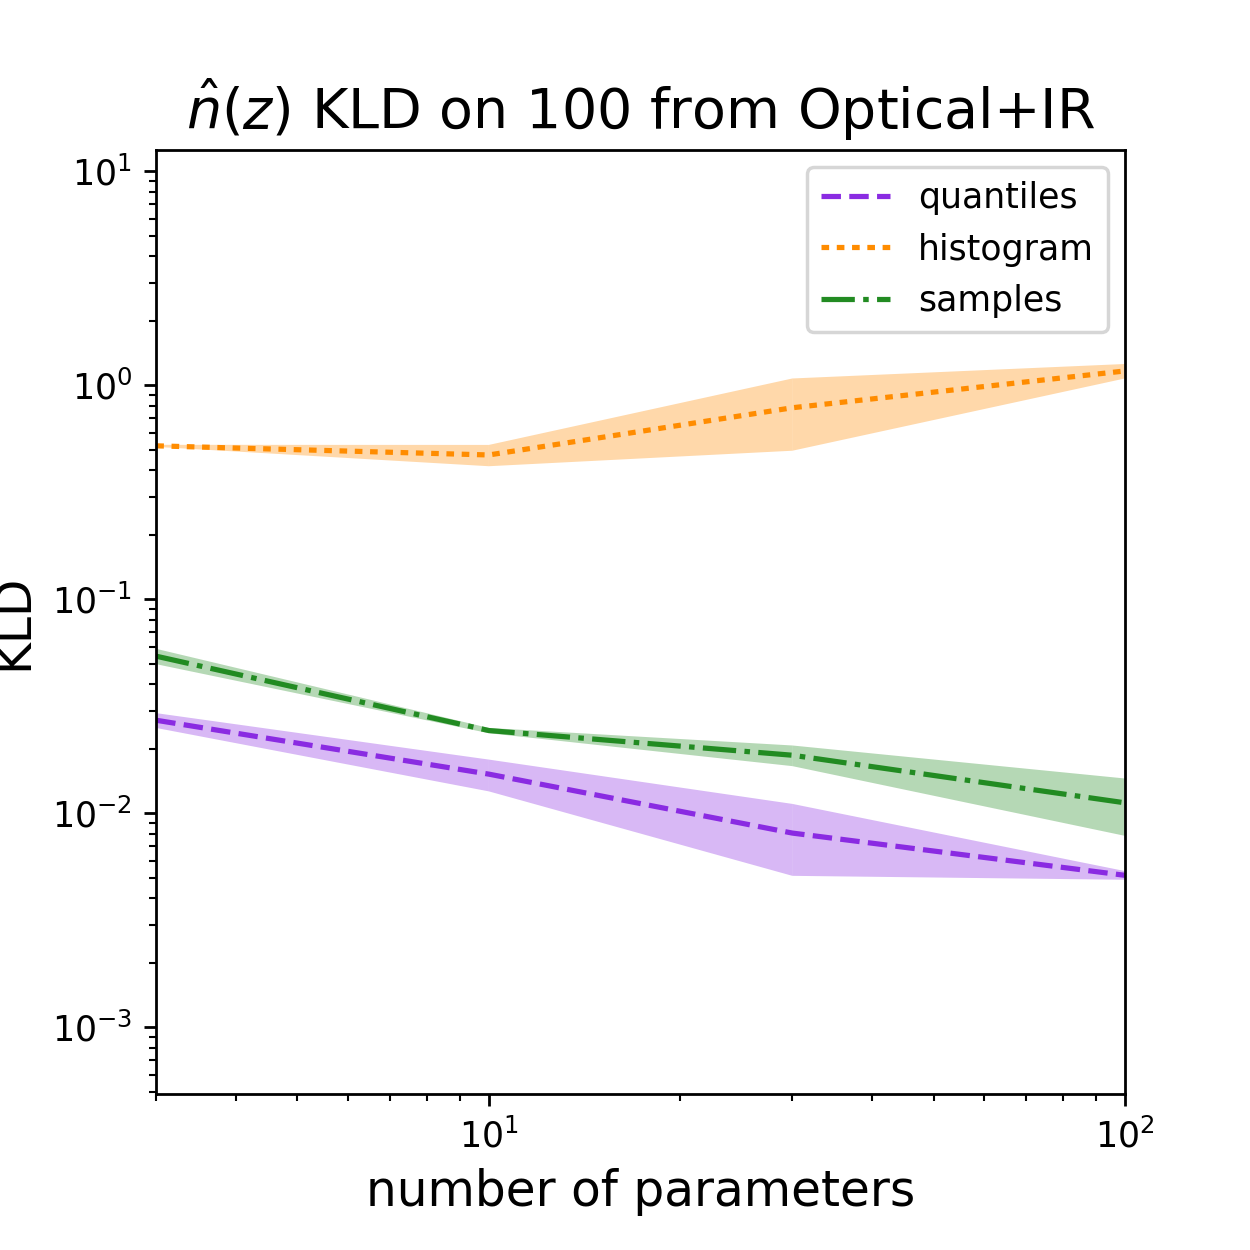
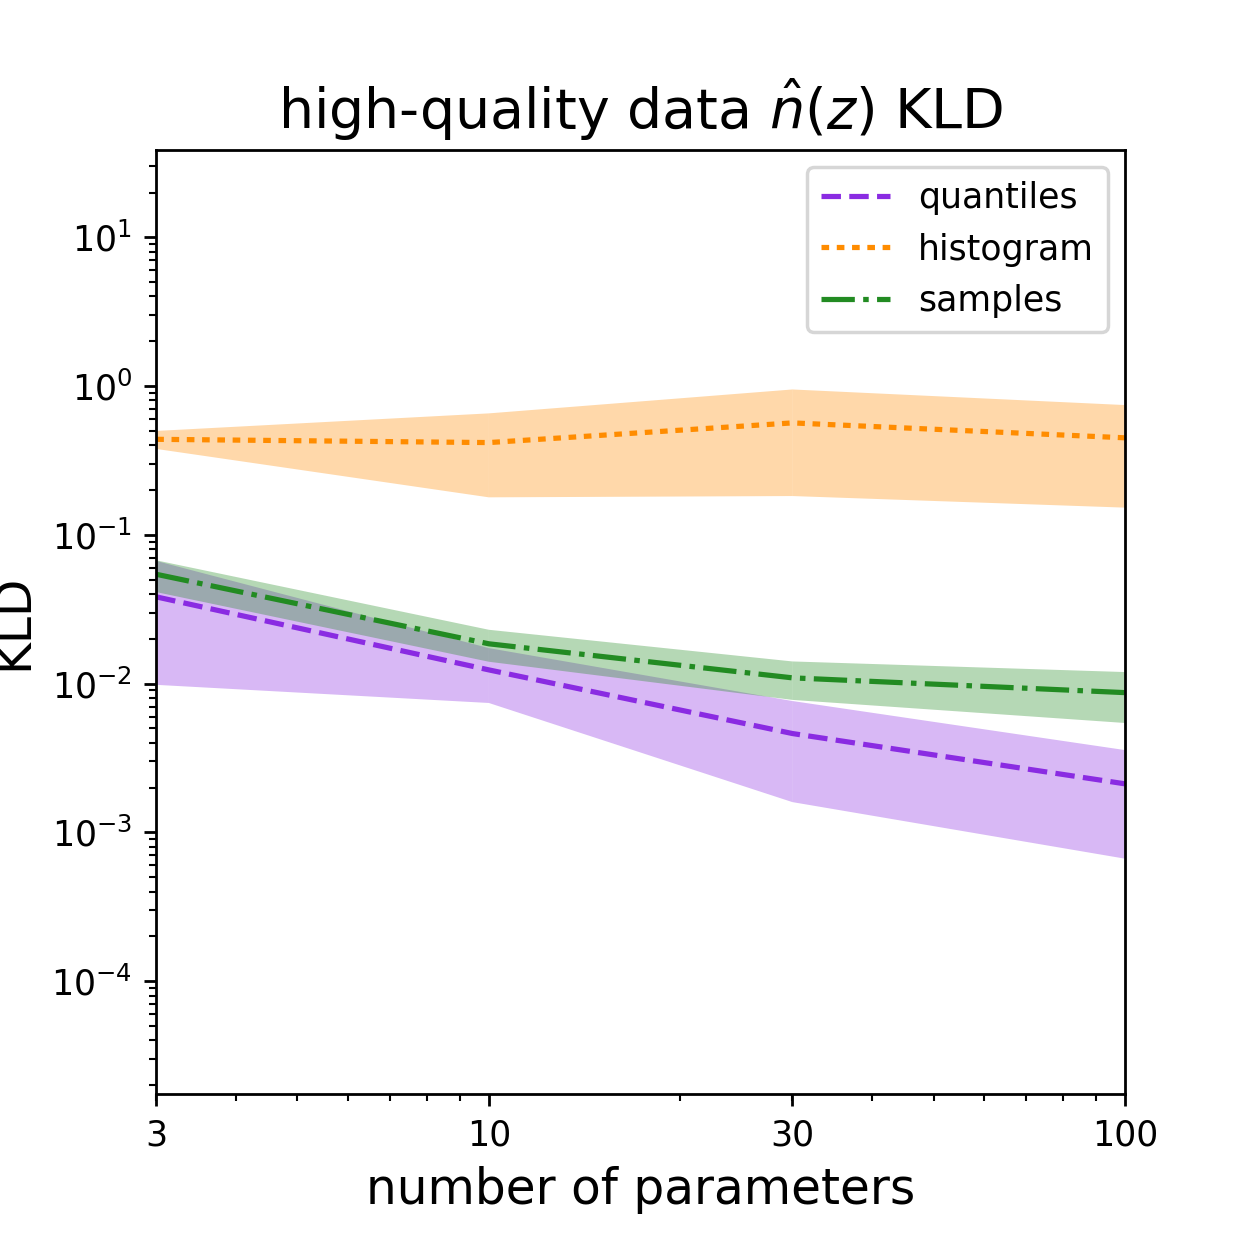
final version!

diff --git a/docs/desc-0000-qp-photo-z_approximation/main.tex b/docs/desc-0000-qp-photo-z_approximation/main.tex
@@ -166,7 +166,7 @@ reconstructions $\hat{p}(z)$.
 We postpone to future work the exploration of adaptations of non-positive 
 semidefinite representations and inclusion of the sparse basis representation 
 in \qp, restricting ourselves to mixture models of 
-\texttt{scipy.stats.rv_continuous} objects.
+\texttt{scipy.stats.rv\_continuous} objects.
 
 The various \qp\ formats are illustrated in Figure~\ref{fig:qp} on a multimodal 
 \pz\ with stored parameters.
@@ -486,7 +486,7 @@ evaluated their accuracy using the metrics described above.
 \label{sec:results}
 
 
-We calculate the metrics of Section~\ref{sec:metrics} on 10 random 
+We calculate the metrics of Section~\ref{sec:metric} on 10 random 
 instantiations of catalogs of $N_{g}=100$ galaxies drawn randomly from each of 
 the datasets discussed in Section~\ref{sec:data} and with each of $N_{f}=3,\ 
 10,\ 30,\ 100$ stored parameters.
@@ -509,7 +509,7 @@ stacked estimator.
 
 
 \begin{figure}
-  \includegraphics[width=0.9\columnwidth]{figures/graham_stacked.png}
+  \includegraphics[width=0.9\columnwidth]{figures/stacked.png}
   \caption{An example of the stacked estimator of the redshift distribution, 
 for a subsample of $N_{g}=100$ galaxies drawn from the higher-quality data mock 
 catalog and with just $N_{f}=10$ parameters used for each \pz.
@@ -529,13 +529,15 @@ The two datasets share some features:
 \begin{enumerate}
 \item The histogram format leads to substantial loss of information relative to 
 the other formats.
-\item The samples and quantile formats have similar KLDs at low $N_{f}$.
+\item The samples and quantile formats have similar KLDs, particularly at low 
+$N_{f}$.
 \item The quantile format achieves the lowest KLD of all formats in the high 
 $N_{f}$ regime.
-\item The samples format asymptotically approaches a limit in KLD at 
-$N_{f}\geq30$.
 \item The samples format is more consistent in terms of the variance between 
 instantiations.
+\item The samples format asymptotically approaches a limit in KLD at 
+$N_{f}\geq30$, likely because that is the limit at which the samples-induced 
+shot noise becomes subdominant.
 \end{enumerate}
 Because the data quality has a significant impact on the behavior of the 
 metric, we proceed to discuss the two datasets separately, in terms of relative 
@@ -544,114 +546,118 @@ $N_{f}$.
 
 For the higher quality data mock catalog, the histogram format not only has a 
 consistently higher $\hat{n}(z)$ KLD but one that does not improve with 
-increasing $N_{f}$; this is actually expected because a great majority of the 
-probability will be in a single bin $c^{h}_{i=j}$ with all other $c^{h}_{i\neq 
-j}\approx 0$ \textit{regardless} of $N_{f}$.
+increasing $N_{f}$.
+This poor performance independent of resource allocation is actually expected 
+because, due to the narrow, unimodal \pz s of Figure~\ref{fig:graham_pzs}, a 
+great majority of the probability density will fall into a single bin 
+$c^{h}_{i=j}$ with all other $c^{h}_{i\neq j}\approx 0$ \textit{regardless} of 
+$N_{f}$.
 The quantile format consistently produces the lowest $\hat{n}(z)$ KLDs, with a 
 larger improvement over the samples format as $N_{f}$ increases.
-The quantile format also has a larger variance than the samples format, likely 
-due to the imperfections of the procedures for deriving the quantile parameters 
-$\vec{c}^{q}$ from the true $p(z)$ and for interpolating the quantile 
-parameters to obtain a reconstructed $\hat{p}^{q}(z)$.
-With narrow, unimodal \pz s, the KLD of samples undergoes smaller and smaller 
-improvements in KLD with increasing $N_{f}$, meaning there is essentially no 
-reason to store $N_{f}>30$ parameters.
+The improvement with larger $N_{f}$ is a surprising result because the shot 
+noise due to samples should decrease with higher $N_{f}$.
+The quantile format also has a larger variance between instantiations than the 
+samples format, likely due to the imperfections of the procedures for deriving 
+the quantile parameters $\vec{c}^{q}$ from the true $p(z)$ and for 
+reconstructing $\hat{p}^{q}(z)$ from the quantile parameters $\vec{c}^{q}$.
 
 In the lower quality data mock catalog, the histogram format does improve with 
 increasing $N_{f}$, however, it takes a whopping $N_{f}=100$ stored parameters 
 before the histogram format can supercede the KLD of the samples and quantile 
 formats at a mere $N_{f}=3$ stored parameters, where the histogram format takes 
 a staggering value $KLD>1$.
-As in the higher-quality data mock catalog, the samples and quantile formats 
-have comparable KLDs with
-
-that lower KLDs are achievable with the lower quality data mock catalog
-
- and [the discrepancy between formats is greater for the higher quality 
-dataset], indicating that multimodal and broader distributions are more 
-sensitive to the parametrization.
+With \pz s that take nontrivial values across a wider range of redshifts, the 
+histogram format is expected to capture more structure with more bins, 
+consistent with the aforementioned improvement.
+The samples format's asymptote is surprisingly achieved at a lower KLD for the 
+low-quality data mock catalog than for the high-quality data mock catalog.
+The variance between instantiations of the quantile format increases at high 
+$N_{f}$, a possible indication of room for improvement with the procedures for 
+deriving the quantile parameters $\vec{c}^{q}$ from the true $p(z)$ and for 
+reconstructing $\hat{p}^{q}(z)$ from the quantile parameters $\vec{c}^{q}$
 
 \begin{figure}
-  \includegraphics[width=0.9\columnwidth]{figures/schmidt_kld.png}\\
-  \includegraphics[width=0.9\columnwidth]{figures/graham_kld.png}
+  \includegraphics[width=0.9\columnwidth]{figures/graham_kld.png}\\
+  \includegraphics[width=0.9\columnwidth]{figures/schmidt_kld.png}
   \caption{KLD between approximate $\hat{n}(z)$ and true $\hat{n}(z)$ as a 
 function of number of stored parameters, for the three different approximation 
 schemes: quantiles (purple dashed line), samples (green dash-dotted line), and 
-histogram (orange dotted line).  Top panel: The histogram format is not 
-well-suited to the lower-quality dataset of Section~\ref{sec:schmidt}, while 
-the quantiles and samples formats perform comparably well.  Bottom panel: The 
-higher-quality data mock catalog of Section~\ref{sec:graham} favors the 
-quantiles format and strongly disfavors the histogram format, with samples 
-being slightly less favorable than quantiles.
+histogram (orange dotted line).
+  Top panel: The mock catalog of higher-quality data of 
+Section~\ref{sec:graham} favors the quantiles format and strongly disfavors the 
+histogram format, with quantiles being slightly more favorable than samples.
+  Bottom panel: The histogram format is not well-suited to the mock catalog of 
+lower-quality data of Section~\ref{sec:schmidt}, while the quantiles and 
+samples formats perform comparably well.
   \label{fig:kld}}
 \end{figure}
 
-We interpret Fig. \ref{fig:kld} in the context of constraints on storage 
+We interpret Figure~\ref{fig:kld} in the context of constraints on storage 
 allocation imposed by the survey and constraints on the acceptable degree of 
-information loss imposed by the science requirements.  The former corresponds 
-to a vertical line at $N_{f, lim}$ in Fig. \ref{fig:kld}; the best format would 
-be the one that achieves the lowest KLD at $N_{f, lim}$.  The latter 
-corresponds to a horizontal line at $KLD_{lim}$ in Fig. \ref{fig:kld}; the best 
-parametrization would be the one that achieves $KLD_{lim}$ at the smallest 
-value of $N_{f}$.
-
+information loss imposed by the science requirements.
+The former corresponds to a vertical line at a given $N_{f, lim}$ in Fig. 
+\ref{fig:kld}; the best format would be the one that achieves the lowest KLD at 
+$N_{f, lim}$.
+The latter corresponds to a horizontal line at $KLD_{lim}$ in 
+Figure~\ref{fig:kld}; the best format would be the one that achieves 
+$KLD_{lim}$ at the smallest value of $N_{f}$.
 If there is some flexibility in the acceptable degree of information loss on 
 $\hat{n}(z)$ and/or the allocation of storage for \pz s, as is the case for 
 LSST, it may be best to examine the asymptotic behavior of the KLD as a 
-function of $N_{f}$ for each format considered to make a choice based on a 
-marginal difference.  For example, if the KLD can be significantly reduced with 
-a slightly larger $N_{f}$, it may be possible to request additional storage 
-capacity for the survey's \pz s.  We note that for these datasets, the KLD 
-achieves its asymptote at different values of $N_{f}$ for each format, with the 
-histogram format taking far larger $N_{f}$ than the other formats.
+function of $N_{f}$ for each format considered.
+For example, if the KLD can be significantly reduced with a slightly larger 
+$N_{f}$, it may be possible to request additional storage capacity for the 
+survey's \pz s.
 
 \subsection{Individual \pz s}
 \label{sec:individual_results}
 
-Parametrizations are also compared on the basis of the distributions of the KLD 
-of Sec. \ref{sec:metric} calculated for all \pz s in the catalog of each 
-dataset.  An example of the individual \pz\ KLD distribution is shown in Fig. 
-\ref{fig:individual} for the low-quality dataset with $N_{f}=10$.
+We also compare our three parametrizations on the basis of the distributions of 
+the KLD calculated for every \pz\ in the dataset's ensemble.
+An example of the individual \pz\ KLD distribution is shown in 
+Figure~\ref{fig:individual} with $N_{f}=10$.
 
 \begin{figure}
-  \includegraphics[width=0.9\columnwidth]{figures/lsst_individual.png}
-  \caption{Here one can see the general shape of the distribution of log-KLD 
-values for $N_{g}=100$ \pz s from the low-quality dataset with $N_{f}=10$ over 
-the quantiles (purple with dashed border), samples (green with dash-dotted 
-border), and histogram (orange with dotted border) formats.  In this case, the 
-quantile format has a narrow distribution with a higher KLD, whereas the 
-samples and histogram formats have broader distributions with generally lower 
-KLDs.
+  \includegraphics[width=0.9\columnwidth]{figures/individual.png}
+  \caption{The distribution of log-KLD values for $N_{g}=100$ \pz s from the 
+low-quality dataset with $N_{f}=10$ over the quantiles (purple with dashed 
+border), samples (green with dash-dotted border), and histogram (orange with 
+dotted border) formats.
+  For the individual \pz s, the samples format has far better KLDs than the 
+histogram or quantile formats, which are comparable to one another.
   \label{fig:individual}}
 \end{figure}
 
-To distill what is observed in plots like Fig. \ref{fig:individual} for both 
+To distill what is observed in plots like Figure~\ref{fig:individual} for both 
 datasets and all parametrizations, we compare the moments of the distributions 
 of metric values for the distribution of the KLDs of individual \pz s under 
-each parametrization, summarized in Fig. \ref{fig:moments}.  While it is 
-obvious that one would like the mean (first moment) of the KLD distribution to 
-be low, interpretation of higher-order moments is less clear.  In a science 
-application that is robust to \pz\ outliers, a parametrization with a high 
-variance (second moment) may be acceptable, whereas in another science 
-application that simply requires well-characterized errors could tolerate a 
-higher mean in exchange for a lower variance.  To meaningfully interpret the 
-KLD of individual \pz s, it will be necessary for those using \pz s in their 
-science to calculate the requirements on the acceptable degree of information 
-loss.
+each parametrization, summarized in Figure~\ref{fig:moments}.
+While it is obvious that one would like the mean (first moment) of the KLD 
+distribution to be low, interpretation of higher-order moments is less clear.
+In a science application that is robust to \pz\ outliers, a parametrization 
+with a high variance (second moment) may be acceptable, whereas in another 
+science application that simply requires well-characterized errors could 
+tolerate a higher mean in exchange for a lower variance.
+To meaningfully interpret the KLDs of individual \pz s, it will be necessary 
+for those using \pz s in their science to calculate the requirements on the 
+acceptable degree of information loss.
 
 \begin{figure}
-  \includegraphics[width=0.9\columnwidth]{lsst_moments.png}\\
-  \includegraphics[width=0.9\columnwidth]{euclid_moments.png}
+  \includegraphics[width=0.9\columnwidth]{graham_moments.png}\\
+  \includegraphics[width=0.9\columnwidth]{schmidt_moments.png}
   \caption{The mean ($\bigstar$), variance ($+$), and kurtosis ($\times$) of 
-the KLD distributions are plotted for each dataset over all parametrizations 
-(quantiles in purple, samples in green, and histogram in orange).  The moments 
-and their error regions have been offset about $N_{f}$ to improve readability.  
-Top panel: The lower-quality dataset has\dots.  Bottom panel: The optical+IR 
-dataset has\dots.
+the log-KLD distributions for each dataset as a function of $N_{f}$ for the 
+quantile (purple), samples (green), and histogram (orange) formats.
+  The moments and their error regions are offset about $N_{f}$ to improve 
+readability.
+  Top panel: The samples format consistently minimizes the moments of the 
+log-KLD distribution of the higher quality data mock catalog at low $N_{f}$, 
+and the moments are similar across formats at the highest $N_{f}=100$.
+  Bottom panel: The lower quality data mock catalog exhibits no clear pattern 
+at low $N_{f}$ but the moments of all formats decrease at high $N_{f}$ with the 
+histogram format achieving the lowest moments in that regime.
   \label{fig:moments}}
 \end{figure}
-
-
 
 
 
@@ -661,56 +667,57 @@ dataset has\dots.
 \label{sec:conclusions}
 
 
-This work develops a principled approach to choosing a storage format and 
-resolution for storing a catalog of \pz s from a survey of known data quality 
-to balance the accuracy of \pz s and science products thereof reconstructed 
-from the stored parameters against the available storage constraints.  We 
-demonstrate the recommended method on two realistic mock datasets 
+This work develops a principled approach to choosing a parametrization for 
+storing a catalog of \pz s from a survey of known data quality to balance the 
+accuracy of \pz s and science products thereof reconstructed from the stored 
+parameters against the available storage constraints.
+We demonstrate the recommended method on two realistic mock datasets 
 representative of upcoming \pz\ catalogs and draw the following conclusions:
 \begin{itemize}
-  \item
-  \item As indicated by the KLD, the quantile parametrization is a promising 
-option for minimizing loss of information in \pz\ storage.
-  \item Given the constraint that LSST will be able to store 200 floating point 
-numbers to quantify the redshift of each galaxy and intends to include several 
-\pz\ codes, we can safely say that LSST can store the output of more than one 
-\pz\ code without any significant risk of loss of information.
+  \item The optimal parametrization depends on the properties of the data and 
+the science-driven metric used.
+  \item A larger number of available parameters in which to store a \pz\ 
+catalog does not necessarily imply a significant reduction in loss of 
+information.
+  \item The histogram format has a high rate of loss of information over high- 
+and low-quality data mock catalogs and across a wide range of number of stored 
+parameters, particularly under an aggregate function of individual 
+reconstructed \pz\ approximations.
+  \item The samples format is an excellent option for storage of high-quality 
+\pz\ catalogs, balancing loss of information for both individual \pz\ s and a 
+catalog-wide metric.
+  \item The quantile format is a promising option for minimizing loss of 
+information in \pz\ storage, competitive with samples for an estimator of the 
+redshift distribution function.
 \end{itemize}
 
-We also make publicly available the \qp\ Python package central to this 
-procedure and invite the community to contribute additional formats and metrics 
-to the project.  \qp\ is a tool that can be used to optimize the choice of 
-stored parametrization and number of stored parameters of a catalog of \pz s 
-based on the accuracy needs of the use cases of the catalog.  Further 
-applications of \qp\ functionality for manipulations of \pz s is demonstrated 
-in the LSST-DESC PZ DC1 paper (in prep.).
-
+Given the constraint that LSST will be able to store only 200 floating point 
+numbers to quantify the redshift of each galaxy and intends to include the 
+results of several \pz\ codes, we can safely say that LSST can store the output 
+of more than one \pz\ code without risk of significant loss of information.
 We do not advocate for a one-size-fits-all solution to the problem and 
 emphasize that the optimal choice must depend on the requirements of the 
-science metric(s) and characteristics of the underlying \pz\ catalog.  
-Furthermore, this procedure does not address the computational resources that 
-may be necessary to perform the storage operation and to reconstruct \pz s into 
-the format necessary for science calculations.
-
-\dots
+science metric(s) and characteristics of the underlying \pz\ catalog.
+We invite the community to contribute additional formats and metrics to the 
+publicly available \qp\ Python package developed for this project.  \qp\ is a 
+tool that can be used to optimize the choice of stored parametrization of a 
+catalog of \pz s based on the accuracy needs of the use cases of the catalog.
 
 
 \subsection*{Appendix}
 \label{sec:kld}
 
-The KLD measures the loss of information, measured in nats, due to using an 
-approximation of a distribution.  The most important quirk of the KLD is its 
-asymmetry; it is not a distance, like the root mean square error, that is the 
-same from $P(z)$ to $P'(z)$ as it is from $P'(z)$ to $P(z)$ but a 
-\textit{divergence} in the information lost when using $P'(z)$ to approximate 
-$P(z)$.  The KLD requires not only that both functions $P(z)$ and $P'(z)$ be 
-true probability distributions (always positive semidefinite and integrating to 
-unity) but also that there must be some notion of a true reference 
-distribution.  The latter is in general not true for real data but can be 
-checked for mock data, and the former may need to be explicitly enforced for 
-formats other than quantiles.  It is also obvious that the KLD is always 
-positive, and a smaller value indicates better agreement between the 
-approximation and the truth.
+The Kullback-Leibler divergence quantifies the loss of information, measured in 
+nats (base $e$ bits), due to using an approximation of a distribution.
+The most important feature of the KLD is its asymmetry; it is not a distance, 
+like the root mean square error, that is the same from $P(z)$ to $P'(z)$ as it 
+is from $P'(z)$ to $P(z)$ but a \textit{divergence} in the information lost 
+when using $P'(z)$ to approximate $P(z)$.
+The KLD requires that both functions $P(z)$ and $P'(z)$ be probability 
+distributions (always positive semidefinite and integrating to unity); this may 
+need to be explicitly enforced for some approximation formats.
+The KLD is always positive, and a smaller value indicates better agreement 
+between the approximation and the truth.
 
 To develop some intuition, consider the simple example of a Gaussian 
 $P(z)=\mathcal{N}(\mu_{0}, \sigma_{0}^{2})$ being approximated by a Gaussian 
@@ -722,33 +729,34 @@ $P'(z)=\mathcal{N}(\mu, \sigma^{2})$, whose KLD is
 1\right)
 \end{align}
 To get a sense of the units of information, we can calculate the KLD in some 
-limiting cases.  If $\sigma=\sigma_{0}$ but $\mu=\mu_{0}+1$, we obtain 
-$KLD=\frac{1}{2}$ in units of nats -- if the mean of the approximation is wrong 
-by an additive factor of $1\sigma$, half a nat of information is lost.  If 
-$\mu=\mu_{0}$ but $\sigma=\sqrt{2\pi}\sigma_{0}$, we find 
-$KLD\approx\frac{1}{2}$ in units of nats -- half a nat of information is also 
-lost if the variance of the approximation is off by a multiplicative factor of 
-$2\pi$.
+limiting cases.
+If $\sigma=\sigma_{0}$ but $\mu=\mu_{0}+1$, we obtain $KLD=\frac{1}{2}$ nat -- 
+if the mean of the approximation is wrong by an additive factor of $1\sigma$, 
+half a nat of information is lost.
+If $\mu=\mu_{0}$ but $\sigma=\sqrt{2\pi}\sigma_{0}$, we find 
+$KLD\approx\frac{1}{2}$ nat -- half a nat of information is also lost if the 
+variance of the approximation is off by a multiplicative factor of $2\pi$.
 
-We can use the KLD to identify notions of imprecision and inaccuracy.  
+We can use the KLD to identify notions of imprecision and inaccuracy.
 Intuitively, precision must be related to how close $\sigma$ is to $\sigma_{0}$ 
-and accuracy must be related to how close $\mu$ is to $\mu_{0}$.  If 
-$\mu\approx\mu_{0}$, we can say $KLD\sim\log[r] + \frac{1}{2}r^{-2} - 
-\frac{1}{2}$ in terms of the "precision" 
-$r^{-1}\equiv\frac{\sigma_{0}}{\sigma}$, whose behavior is illustrated in Fig. 
-\ref{fig:precision}.
+and accuracy must be related to how close $\mu$ is to $\mu_{0}$.
+If $\mu\approx\mu_{0}$, we can say $KLD\sim\log[r] + \frac{1}{2}r^{-2} - 
+\frac{1}{2}$ where $r^{-1}\equiv\frac{\sigma_{0}}{\sigma}$ is a measure of 
+"precision," whose behavior is illustrated in Figure~\ref{fig:precision}.
+
 \begin{figure}
   \includegraphics[width=0.9\columnwidth]{figures/kld_precision.png}
   \caption{The KLD (solid black line) is proportional to the log of the inverse 
-precision $r$ for $\sigma>\sigma_{0}$ but is more complicated for 
-$\sigma<\sigma_{0}$.
+precision $r$ for $\sigma>\sigma_{0}$.
   \label{fig:precision}}
 \end{figure}
+
 We observe that an overestimated variance increases the KLD as the log of the 
-square root of the ratio of the estimated variance to the true variance.  When 
-$\sigma\approx\sigma_{0}$, $KLD\sim t^{2}$ in terms of the "tension" 
+square root of the ratio of the estimated variance to the true variance.
+When $\sigma\approx\sigma_{0}$, $KLD\sim t^{2}$ in terms of the "tension" 
 $t\equiv\frac{(\mu-\mu_{0})^{2}}{\sigma^{2}}$, whose behavior is illustrated in 
-Fig. \ref{fig:tension}.
+Figure~\ref{fig:tension}.
+
 \begin{figure}
   \includegraphics[width=0.9\columnwidth]{figures/kld_tension.png}
   \caption{The KLD (solid black line) is equal to the square of the tension 
@@ -759,6 +767,8 @@ $t$, with a small additive offset when $r\neq1$.
 \subsection*{Acknowledgments}
 
 
+The work of PJM was supported by the U.S. Department of Energy under contract 
+number DE-AC02-76SF00515.
 SJS was partially supported by the National Science Foundation under grant 
 N56981CC.
 
